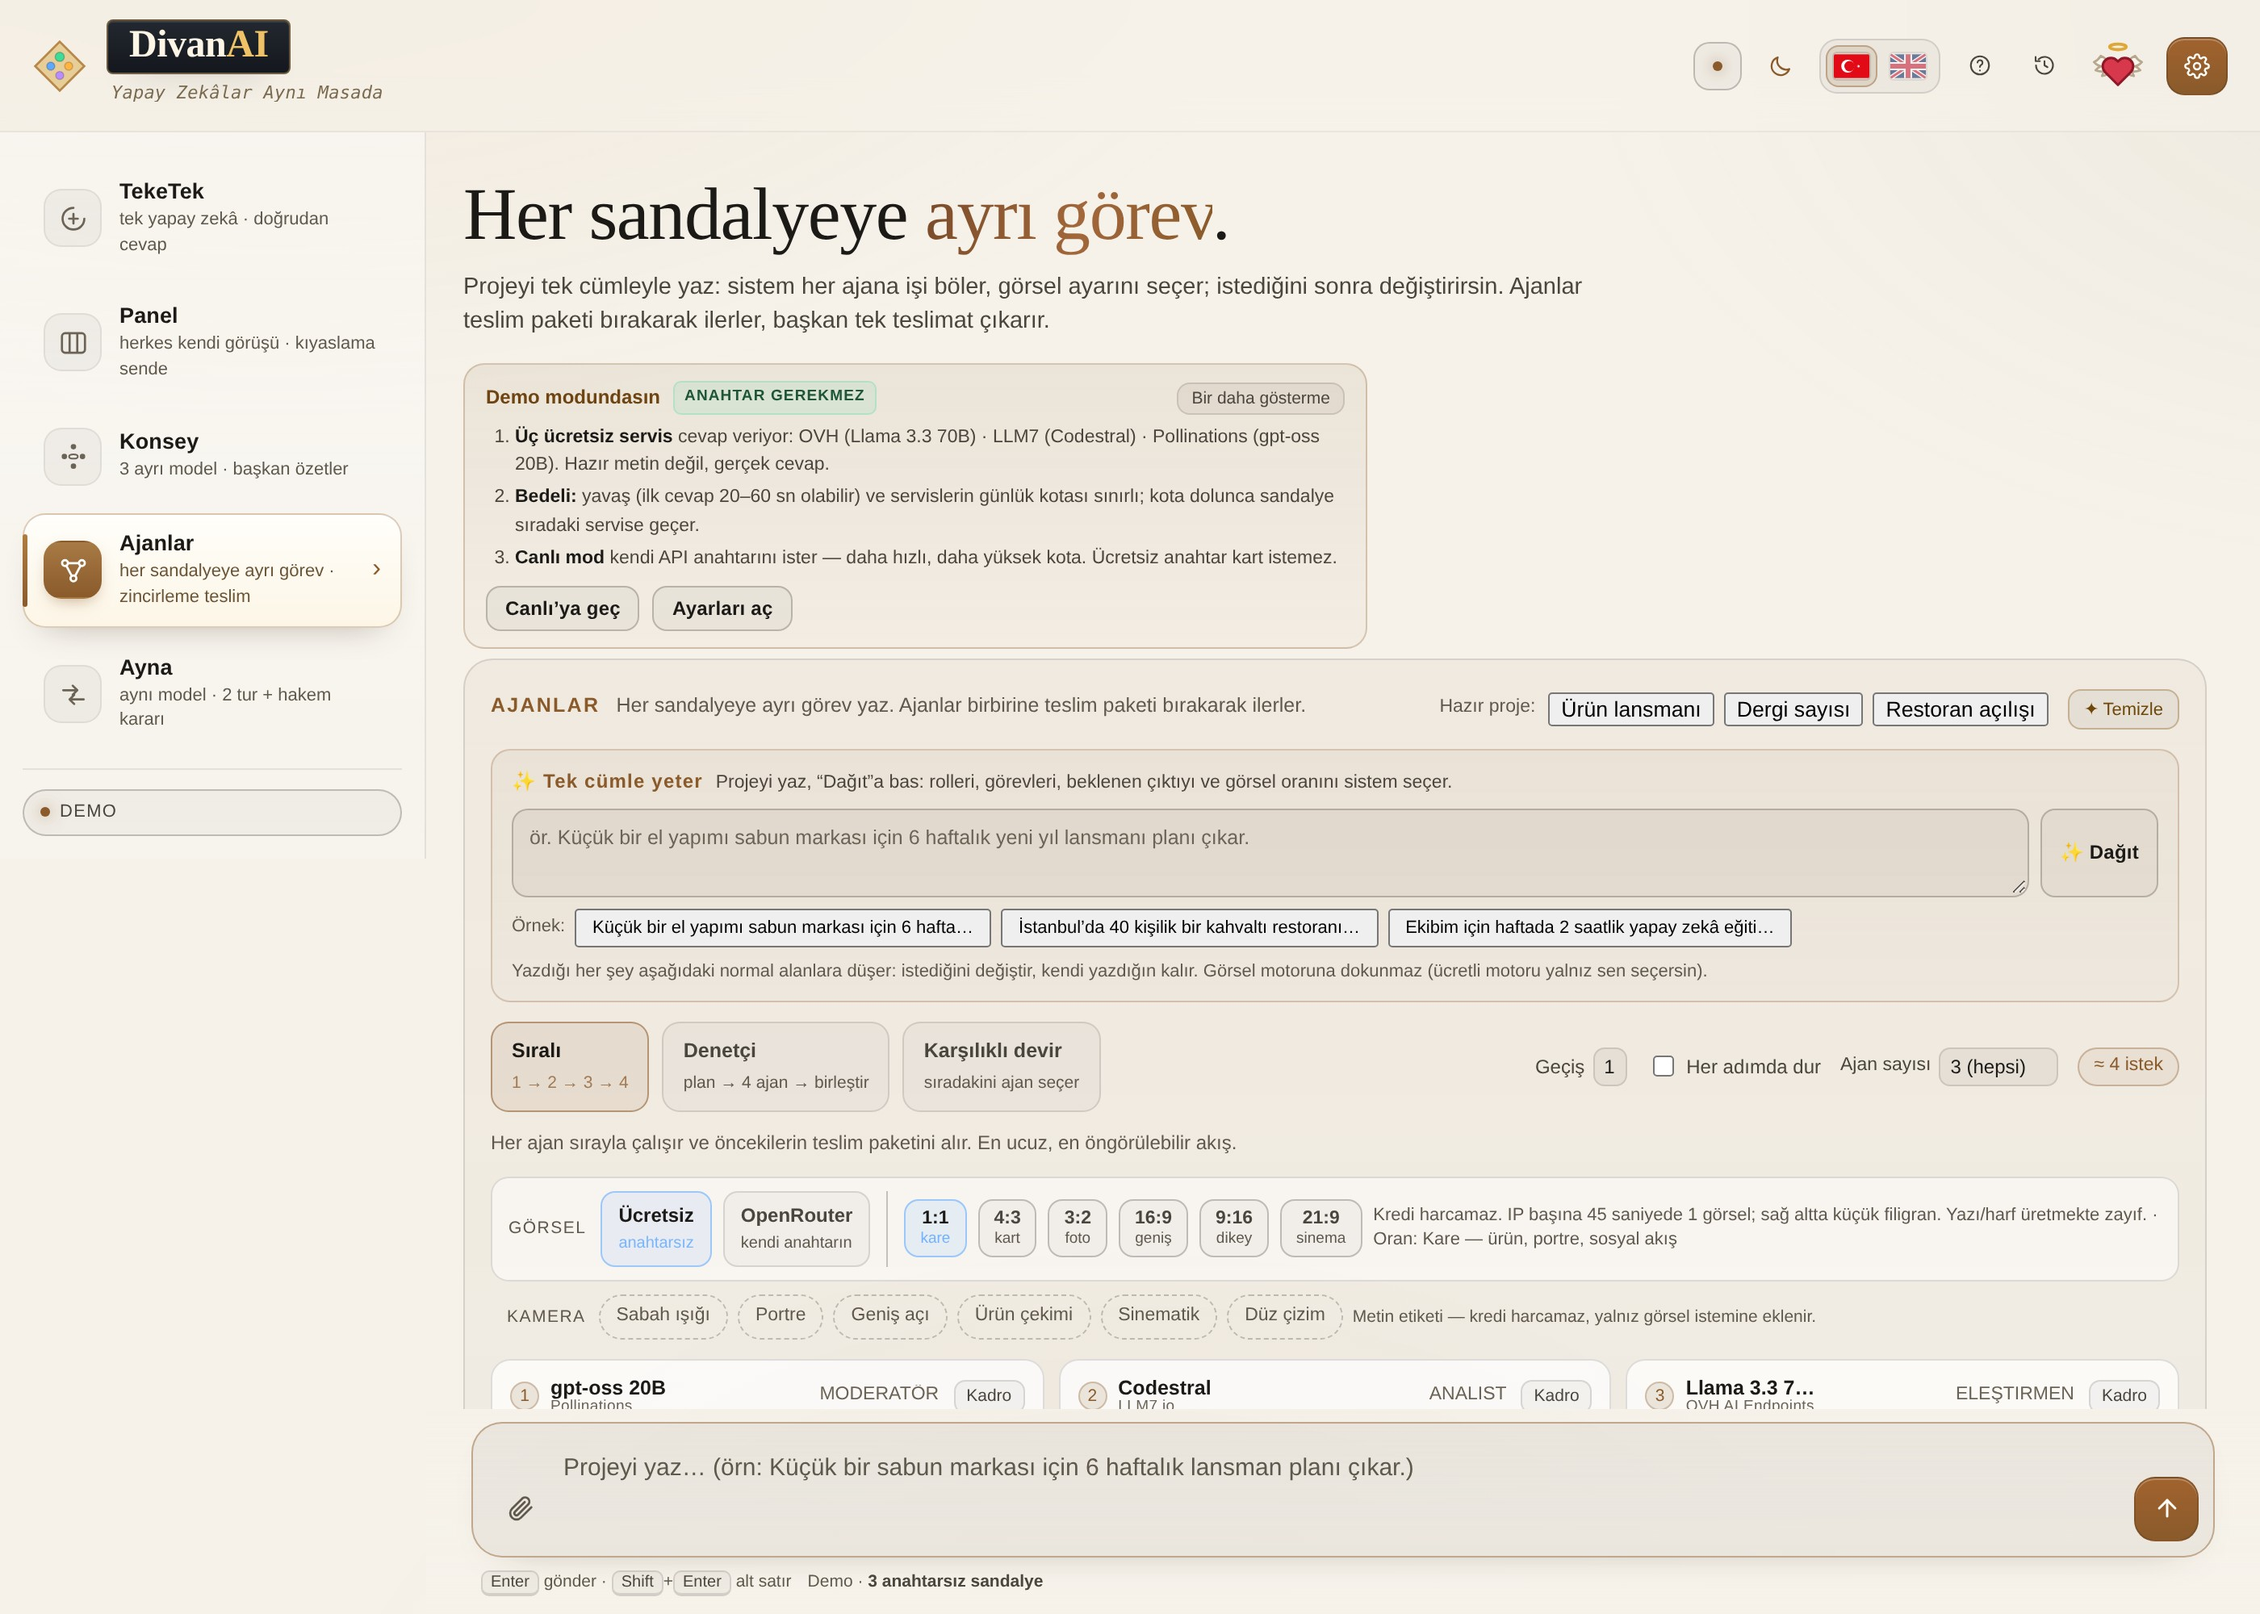
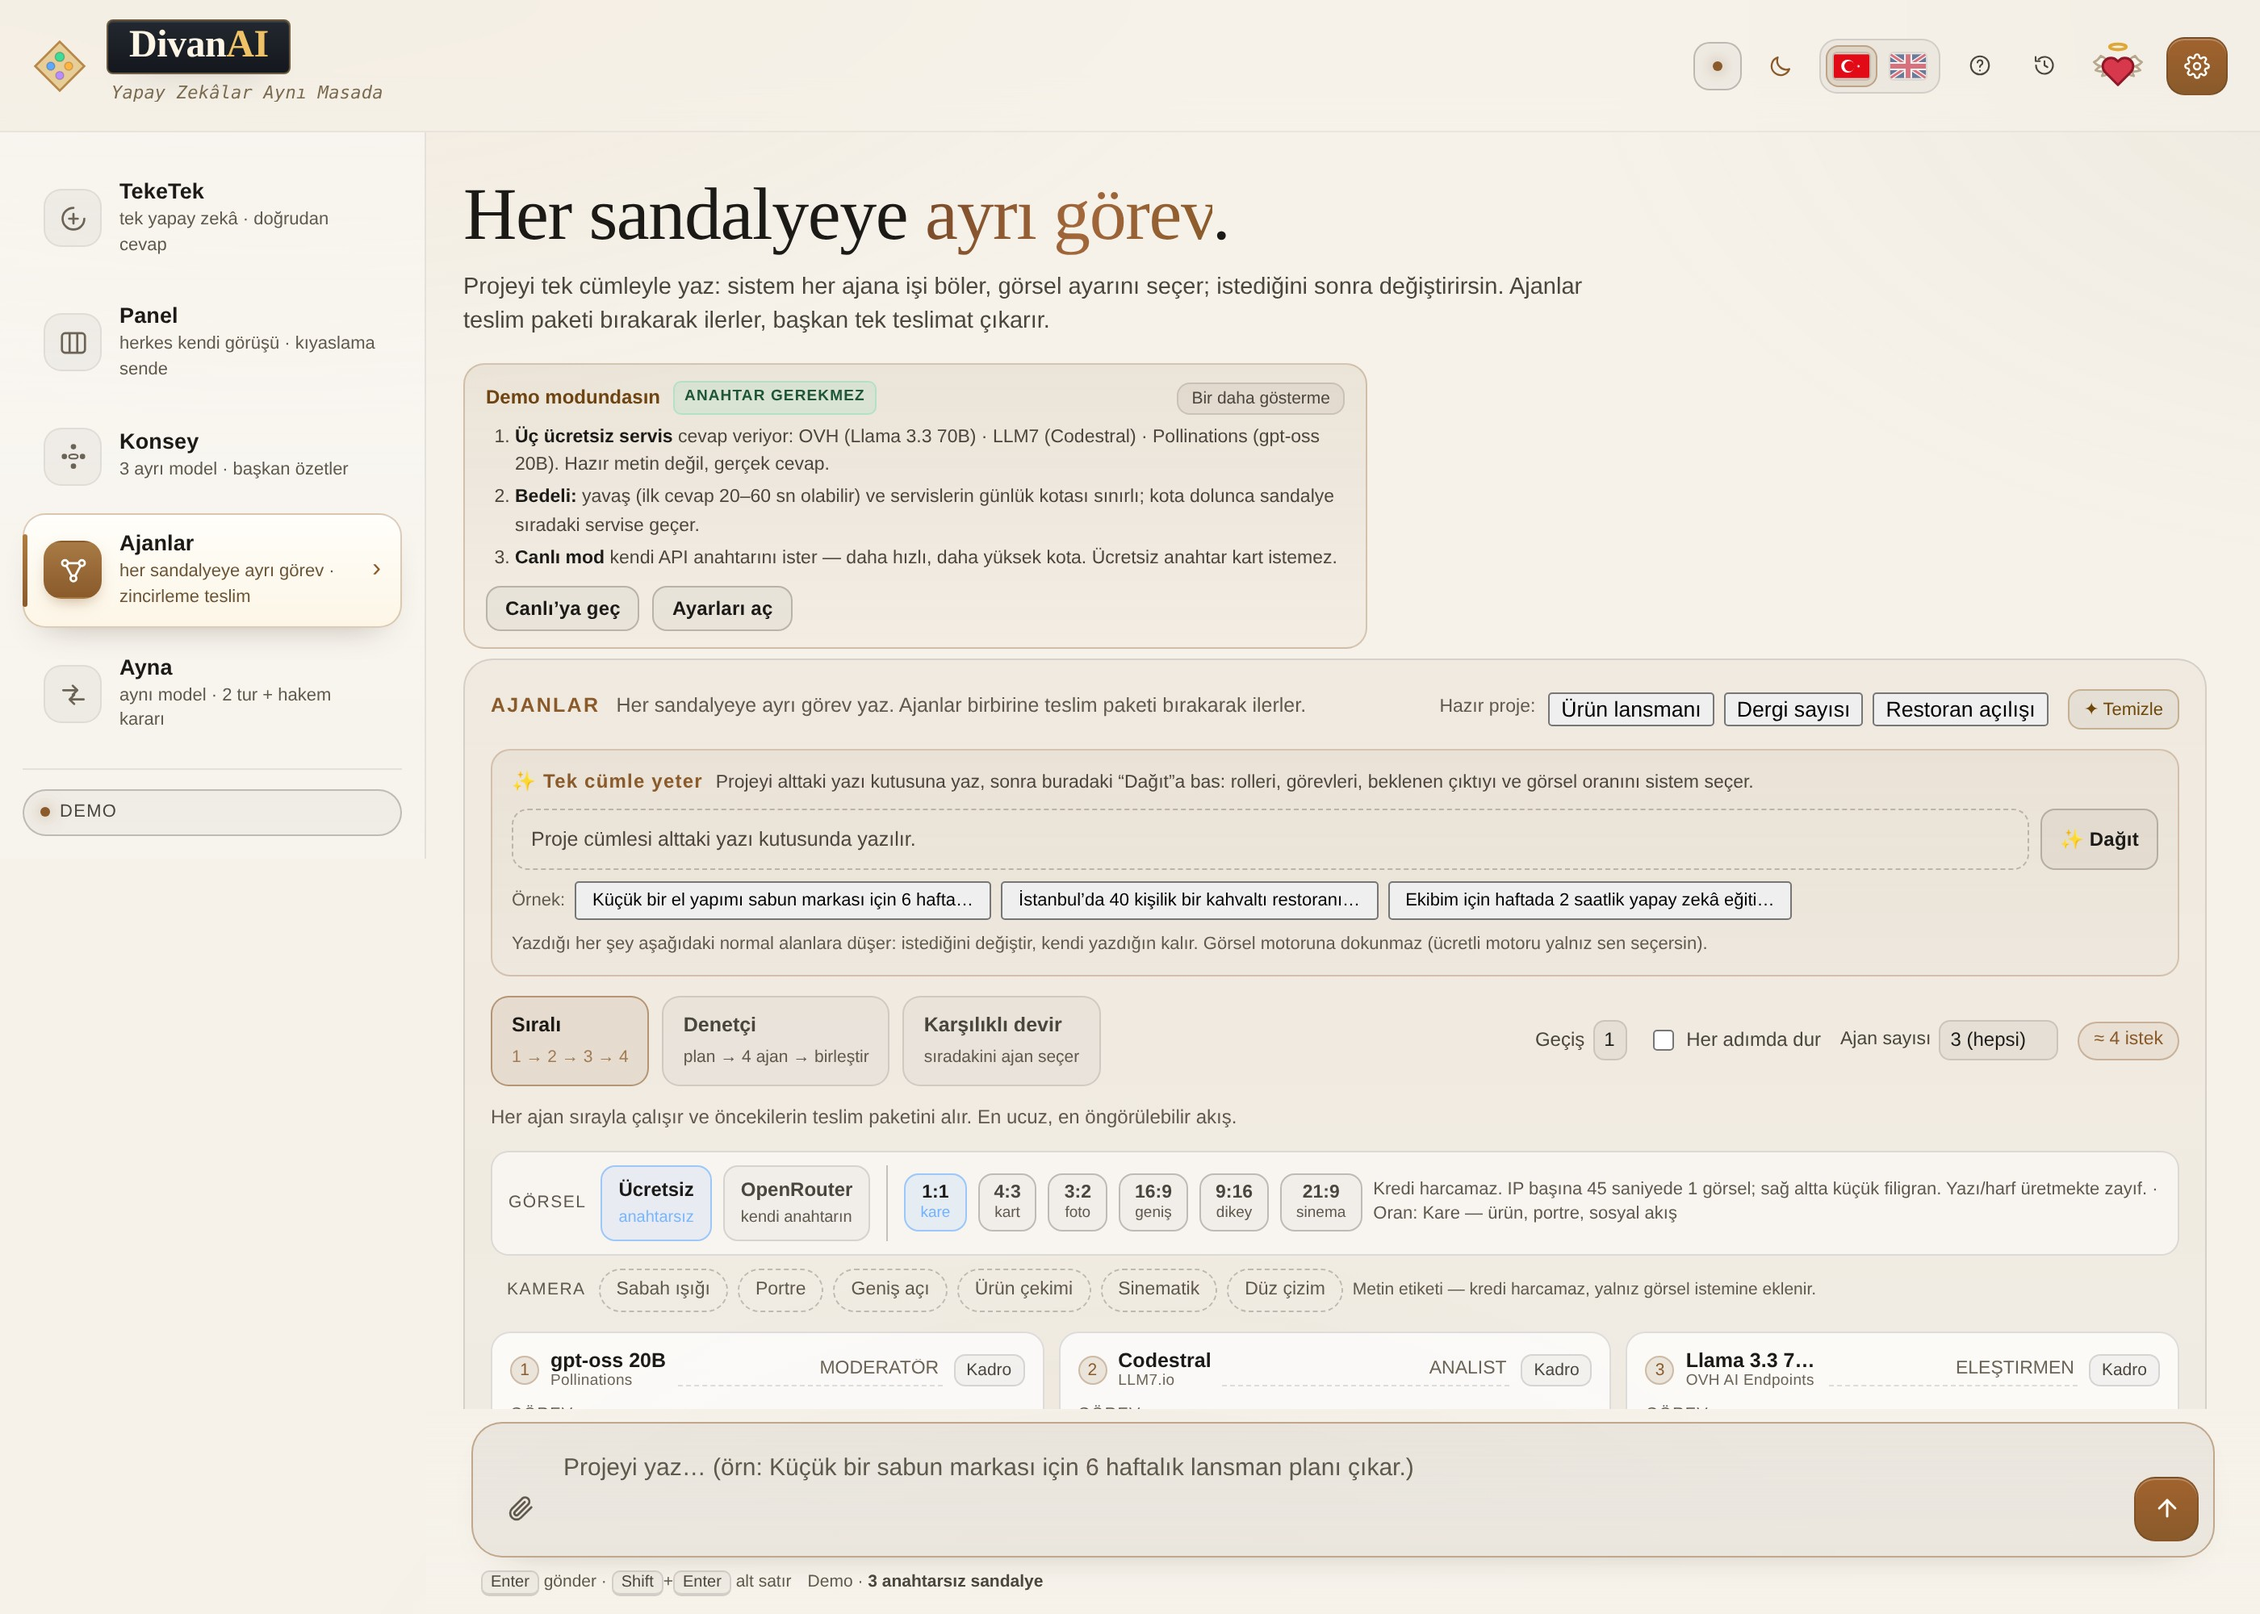
Add files via upload

diff --git a/index.html b/index.html
@@ -1625,6 +1625,9 @@ body.pickOpen{overflow:hidden}
 .autoHead b{font-size:12px;letter-spacing:.05em;color:var(--acc)}
 .autoHead span{font-size:11.5px;color:var(--muted)}
 .autoIn{display:flex;gap:7px;align-items:stretch}
+.autoIn .autoKaynak{flex:1;min-width:0;display:flex;align-items:center;min-height:38px;padding:8px 11px;
+  border:1px dashed var(--line2);border-radius:10px;font-size:12.5px;color:var(--muted);line-height:1.4}
+.autoIn .autoKaynak span{display:block;overflow:hidden;text-overflow:ellipsis;white-space:nowrap}
 .autoIn textarea{flex:1;min-width:0;resize:vertical;min-height:38px;padding:8px 10px;border-radius:10px;
   border:1px solid var(--line2);background:rgba(var(--w),.05);color:var(--text);font:inherit;font-size:12.5px;line-height:1.45}
 .autoIn textarea:focus{outline:none;border-color:rgba(var(--accrgb),.55)}
@@ -8781,7 +8784,9 @@ function ajanSystem(p, job, ctx) {
     lines.push('',
       '## Ek: görsel',
       'Bu görevde bir görsel üretilecek. Cevabının sonuna, devir paketinden ÖNCE tek satır ekle:',
-      'GÖRSEL İSTEMİ: <İngilizce, en fazla 60 kelime; sahne, ışık, stil, kadraj. Metin/logo/yazı isteme.>',
+      'GÖRSEL İSTEMİ: <İNGİLİZCE yaz, en fazla 45 kelime. Kalıp: "ana nesne — malzeme/renk, yüzey/ortam, ışık, kadraj, stil".',
+      '  Örnek: "close-up of a kraft-paper wrapped artisan soap bar with a linen ribbon, dark oak table, soft window light from the left, 85mm shallow depth of field, product photography, no text".',
+      '  Somut ol: nesneyi, malzemeyi ve rengi yaz. "güzel, şık, modern" gibi boş sıfatlar YOK. Metin/logo/harf isteme.',
       'Görsel istemini İngilizce yaz — görsel modeli İngilizceyi daha iyi anlıyor. Açıklamayı Türkçe yazmaya devam et.');
   }
   lines.push('',
@@ -10129,15 +10134,15 @@ let otoSonuc = null;          // son dağıtımın özeti (panelde gösterilir)
 function ajanOtomatikDagit() {
   if (typeof ajanOn === 'function' && !ajanOn()) return;
   const cfg = ajanCfg();
-  const panel = document.getElementById('ajanAutoText');
   const komp = document.getElementById('input');
-  const metin = ((panel && panel.value) || '').trim() || ((komp && komp.value) || '').trim() ||
-    String(cfg.autoText || '').trim() || String(state.topic || '').trim();
+  /* Kol 149: tek kaynak — ekranın altındaki yazı kutusu. Paneldeki kutuyu kaldırdık. */
+  const metin = ((komp && komp.value) || '').trim() || String(state.topic || '').trim() ||
+    String(cfg.autoText || '').trim();
 
   if (metin.length < 12) {
     toast(window.T2('Önce projeyi tek cümleyle yaz (en az birkaç kelime).',
                     'First write the project in one sentence (at least a few words).'), 'warn');
-    if (panel) panel.focus();
+    if (komp) komp.focus();
     return;
   }
 
@@ -10260,15 +10265,18 @@ function otoBlokHTML() {
       '<button type="button" class="mini" data-auto-close="1" title="' + esc(window.T2('Özeti kapat', 'Hide summary')) + '">×</button>' +
     '</div>') : '';
 
+  /* Kol 149 · TEK YAZI KUTUSU.
+     Burada ikinci bir metin kutusu vardı; ekranın altındaki yazı kutusuyla aynı işi görüyordu.
+     Kaldırıldı: proje cümlesi alttaki TEK kutuda yazılır, buradaki “Dağıt” onu okur. */
+  const kaynak = metin ? otoKisa(metin, 96)
+    : window.T2('Proje cümlesi alttaki yazı kutusunda yazılır.', 'The project sentence is written in the message box below.');
   return '<div class="autoRow">' +
     '<div class="autoHead"><b>' + window.T2('✨ Tek cümle yeter', '✨ One sentence is enough') + '</b>' +
-      '<span>' + window.T2('Projeyi yaz, “Dağıt”a bas: rolleri, görevleri, beklenen çıktıyı ve görsel oranını sistem seçer.',
-                            'Write the project, press “Assign”: the system picks roles, tasks, expected outputs and the image ratio.') + '</span></div>' +
+      '<span>' + window.T2('Projeyi alttaki yazı kutusuna yaz, sonra buradaki “Dağıt”a bas: rolleri, görevleri, beklenen çıktıyı ve görsel oranını sistem seçer.',
+                            'Write the project in the message box below, then press “Assign”: the system picks roles, tasks, expected outputs and the image ratio.') + '</span></div>' +
     '<div class="autoIn">' +
-      '<textarea id="ajanAutoText" rows="2" spellcheck="false" placeholder="' +
-        esc(dil === 'en' ? 'e.g. Plan a six-week launch for a small handmade soap brand.'
-                         : 'ör. Küçük bir el yapımı sabun markası için 6 haftalık yeni yıl lansmanı planı çıkar.') + '">' +
-        esc(metin) + '</textarea>' +
+      '<div class="autoKaynak" id="ajanAutoKaynak" title="' + esc(metin || '') + '">' +
+        '<span>' + esc(kaynak) + '</span></div>' +
       '<button type="button" class="btn sm autoBtn" id="ajanAutoBtn">✨ ' + window.T2('Dağıt', 'Assign') + '</button>' +
     '</div>' +
     '<div class="autoOrnekler"><span>' + window.T2('Örnek:', 'Try:') + '</span>' +
@@ -10571,6 +10579,80 @@ function imgPromptFrom(text) {
   return plain.slice(0, 260);
 }
 
+
+/* ==========================================================================
+   Kol 149 · GÖRSEL İSTEMİNİ MOTORUN ANLADIĞI DİLE ÇEVİR
+   Kusur: ajan "GÖRSEL İSTEMİ: Close-up sabun paketi, beyaz zemin, doğal ışık" gibi
+   kısa/Türkçe bir satır yazıyordu; ücretsiz motor bunu anlamıyor, bulanık bir leke üretiyordu.
+   Burada uydurma YOK: yalnız kullanıcının/ajanın yazdığı nesneler İngilizceye çevrilir,
+   üstüne fotoğrafçılık terimleri (ışık, netlik, kadraj) eklenir.
+   ========================================================================== */
+const IMG_TR = [
+  /* önce çok kelimeli kalıplar */
+  [/yak[ıi]n çekim/g, 'close-up'], [/beyaz zemin/g, 'clean white seamless background'],
+  [/do[ğg]al [ıi][şs][ıi]k/g, 'soft natural window light'], [/[üu]r[üu]n çekimi/g, 'professional product photography'],
+  [/el yap[ıi]m[ıi]/g, 'handmade artisan'], [/ah[şs]ap masa/g, 'rustic wooden table'],
+  [/mermer zemin/g, 'white marble surface'], [/kahvalt[ıi] masas[ıi]/g, 'breakfast table spread'],
+  [/[ıi][şs]ık ve g[öo]lge/g, 'strong light and shadow'],
+  /* nesneler */
+  [/sabun paketi|paketli sabun/g, 'artisan soap bar in kraft paper packaging'],
+  [/sabun\w*/g, 'artisan soap bar'], [/ambalaj\w*|paket\w*|kutu\w*/g, 'kraft paper packaging'],
+  [/[şs]i[şs]e\w*/g, 'glass bottle'], [/kavanoz\w*/g, 'glass jar'], [/fincan\w*/g, 'ceramic cup'],
+  [/kahve\w*/g, 'coffee'], [/[çc]ay\w*/g, 'tea'], [/ekmek\w*/g, 'sourdough bread'],
+  [/restoran\w*/g, 'restaurant interior'], [/men[üu]\w*/g, 'printed menu card'],
+  [/yemek\w*/g, 'plated food'], [/tatl[ıi]\w*/g, 'dessert'], [/çiçek\w*|[çc]i[çc]ek\w*/g, 'flowers'],
+  [/tak[ıi]\w*/g, 'fine jewelry'], [/parfüm\w*|parf[üu]m\w*/g, 'perfume bottle'],
+  [/k[ıi]yafet\w*|giyim\w*/g, 'folded clothing'], [/ayakkab[ıi]\w*/g, 'leather shoes'],
+  [/kitap\w*/g, 'book cover'], [/dergi\w*/g, 'magazine cover'], [/kapak\w*/g, 'cover'], [/afi[şs]\w*|poster\w*/g, 'poster design'],
+  [/telefon\w*/g, 'smartphone'], [/bilgisayar\w*|diz[üu]st[üu]\w*/g, 'laptop'],
+  [/ofis\w*/g, 'modern office'], [/mutfak\w*/g, 'kitchen'], [/otel\w*/g, 'hotel room'],
+  [/orman\w*/g, 'forest'], [/deniz\w*/g, 'calm sea'], [/da[ğg]\w*/g, 'mountain landscape'],
+  [/[şs]ehir\w*/g, 'city skyline'], [/k[öo]pek\w*/g, 'dog'], [/kedi\w*/g, 'cat'],
+  [/çocuk\w*|[çc]ocuk\w*/g, 'child'], [/insan\w*|ki[şs]i\w*/g, 'person'],
+  [/e[ğg]itim\w*/g, 'classroom'], [/spor\w*/g, 'sportswear'], [/araba\w*|otomobil\w*/g, 'car'],
+  /* sıfatlar */
+  [/l[üu]ks\w*/g, 'luxury'], [/minimal\w*/g, 'minimalist'], [/modern\w*/g, 'modern'],
+  [/s[ıi]cak\w*/g, 'warm tones'], [/pastel\w*/g, 'pastel palette'], [/sade\w*/g, 'clean simple'],
+  [/canl[ıi]\w*/g, 'vivid'], [/zarif\w*/g, 'elegant'], [/do[ğg]al\w*/g, 'natural'],
+  [/arka plan\w*/g, 'background'], [/zemin\w*/g, 'surface'],
+  [/portre\w*/g, 'portrait'], [/giri[şs]imci\w*/g, 'entrepreneur'], [/yeni y[ıi]l/g, 'festive new year theme'],
+  [/kahvalt[ıi]\w*/g, 'breakfast'], [/a[çc][ıi]l[ıi][şs]\w*/g, 'opening'], [/kad[ıi]n\w*/g, 'woman'],
+  [/k[üu][çc][üu]k\w*/g, 'small'], [/b[üu]y[üu]k\w*/g, 'large'], [/yeni\w*/g, 'new'],
+  [/k[ıi][şs] mevsimi/g, 'winter'], [/ilkbahar/g, 'spring'], [/sonbahar/g, 'autumn'],
+  [/sosyal medya\w*/g, 'social media post'], [/vitrin\w*/g, 'shop window display'],
+  [/masa[üu]st[üu]\w*/g, 'desk setup'], [/sunum\w*/g, 'presentation slide']
+];
+
+/* görsel olmayan iş sözcükleri: nesne kalsın, "plan/takvim/bütçe" kalmasın */
+const IMG_DROP = /\b(marka\w*|markas[ıi]|lansman\w*|kampanya\w*|plan\w*|takvim\w*|strateji\w*|b[üu]t[çc]e\w*|hedef\w*|kitle\w*|analiz\w*|rapor\w*|haftal[ıi]k|hafta\w*|g[üu]nl[üu]k|ayl[ıi]k|y[ıi]ll[ıi]k|i[çc]erik\w*|metin\w*|ba[şs]l[ıi]k\w*|mesaj\w*|sat[ıi][şs]\w*|e-ticaret|b[üu]y[üu]me\w*|m[üu][şs]teri\w*|ekip\w*)\b/g;
+
+const IMG_STYLE_EN = 'professional product photography, sharp focus, high detail, clean composition, natural light, no text, no lettering, no watermark';
+
+function imgPromptZengin(prompt) {
+  let t = String(prompt || '').replace(/\s+/g, ' ').trim();
+  if (!t) return t;
+  const turkce = /[ıişğüöçİŞĞÜÖÇ]/i.test(t) || /\b(bir|ve|için|ile|olan|beyaz|doğal)\b/i.test(t);
+  if (turkce) {
+    const low = t.toLocaleLowerCase('tr');
+    let out = low;
+    for (const [re, en] of IMG_TR) out = out.replace(re, en);
+    /* çeviriden artakalan Türkçe bağlaçlar */
+    out = out.replace(/\b(bir|ve|ile|için|olan|çok|daha|alt[ıi]|ü[çc]|d[öo]rt|be[şs]|iki|yedi|sekiz|dokuz|on)\b/g, ' ');
+    out = out.replace(IMG_DROP, ' ');
+    /* artakalan Türkçe sözcükler: Türkçeye özgü harf taşıyan ya da yalnız sayı olan kelimeler atılır
+       (İngilizce istemde bu harfler yok; böylece "kahvaltı", "ı", "40" gibi kırıntılar kalmaz) */
+    out = out.split(/\s+/).filter(w => w && !/[ışğüöçİŞĞÜÖÇ’']/.test(w) && !/^[\d.,]+$/.test(w)).join(' ');
+    out = out.replace(/\s*,\s*,+/g, ',').replace(/^[\s,.;]+|[\s,.;]+$/g, '').replace(/\s{2,}/g, ' ').trim();
+    t = out;
+  }
+  const hasStyle = /professional|photograph|studio|35mm|bokeh|render|illustration|cinematic/i.test(t);
+  if (!hasStyle) t += ', ' + IMG_STYLE_EN;
+  else if (!/sharp focus|high detail/i.test(t)) t += ', sharp focus, high detail, no text, no watermark';
+  if (t.length < 45) t += ', well-lit detailed scene, clean background';
+  /* çok kısa kalan (ör. tek kelime) istemlerde nesne betimlemesi zayıf kalır: uyar, uydurma */
+  return t.replace(/\s{2,}/g, ' ').slice(0, 900);
+}
+
 /* ---- motor: ücretsiz (anahtarsız) ---- */
 async function genImageFree(prompt, signal) {
   const d = imgDims(undefined, 'bedava');    // orana göre genişlik/yükseklik
@@ -10741,6 +10823,11 @@ async function runImageMsg(m) {
   m.prompt = withCam(m.prompt, imgCfg().cam);   // kamera etiketi (varsa) — iki kez eklenmez
   m.ratio = imgCfg().ratio;                      // kartta oranı göster
   m.engine = m.forceEngine || imgCfg().engine;
+  /* Kol 149 · ücretsiz motor Türkçe/kısa istemi anlamıyor: kartta MOTORA GİDEN istem yazar */
+  if (m.engine === 'bedava') {
+    m.origPrompt = m.origPrompt || m.prompt;
+    m.prompt = imgPromptZengin(m.prompt);
+  }
   if (!state.dom.get(m.id)) appendMsgDOM(m);
   else updateMsgDOM(m);
 
@@ -13898,8 +13985,17 @@ function boot() {
       if (aornek) {
         const l = (window.I18N && window.I18N.isEn()) ? 'en' : 'tr';
         const metin = (OTO_ORNEK[l] || OTO_ORNEK.tr)[Number(aornek.dataset.autoOrnek)];
-        const kutu = document.getElementById('ajanAutoText');
-        if (kutu && metin) { kutu.value = metin; ajanCfg().autoText = metin; saveSettings(); kutu.focus(); }
+        /* Kol 149: örnek cümle alttaki TEK yazı kutusuna yazılır */
+        const kutu = document.getElementById('input');
+        if (kutu && metin) {
+          kutu.value = metin;
+          kutu.dispatchEvent(new Event('input', { bubbles: true }));
+          ajanCfg().autoText = metin; saveSettings();
+          if (typeof autoGrow === 'function') autoGrow(kutu);
+          kutu.focus();
+          const k2 = document.getElementById('ajanAutoKaynak');
+          if (k2) k2.innerHTML = '<span>' + esc(otoKisa(metin, 96)) + '</span>';
+        }
         return;
       }
       const t = e.target.closest('[data-tpl]');
